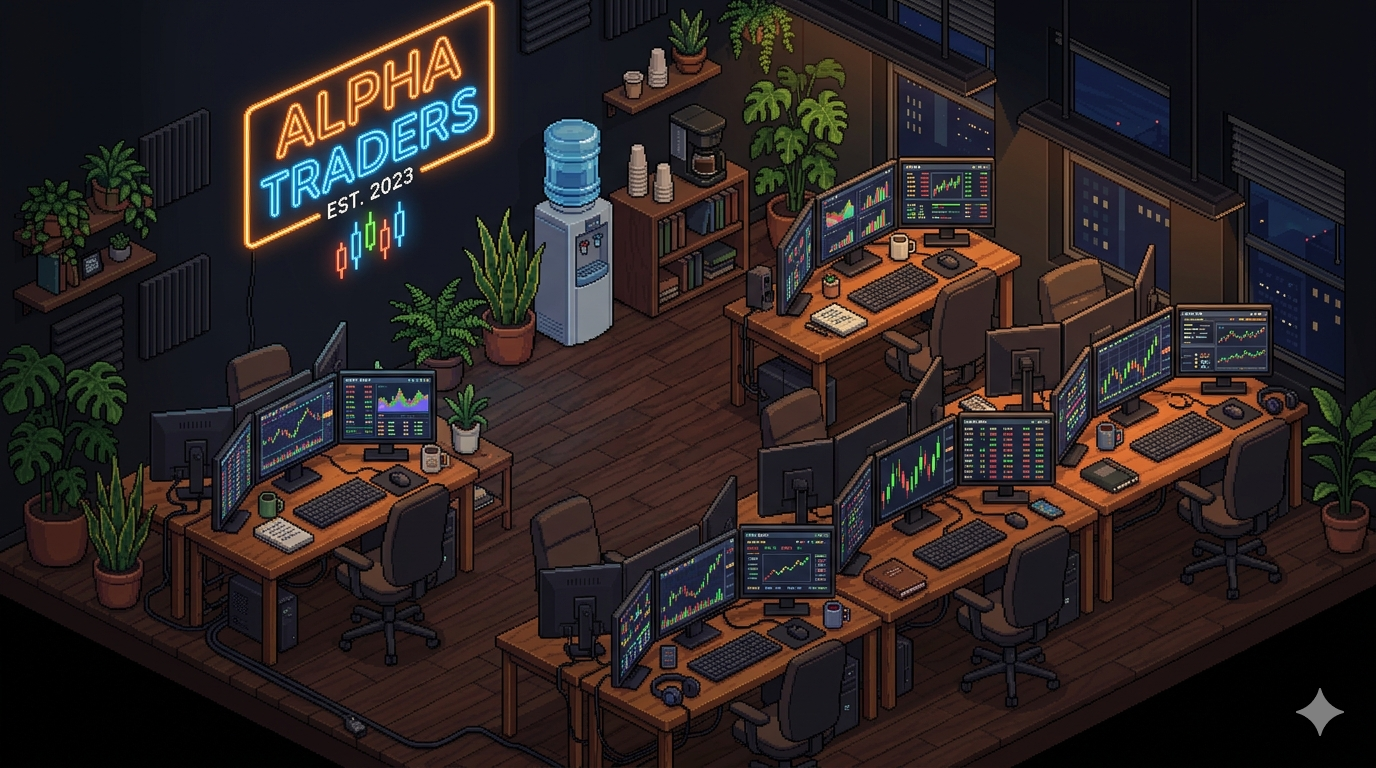
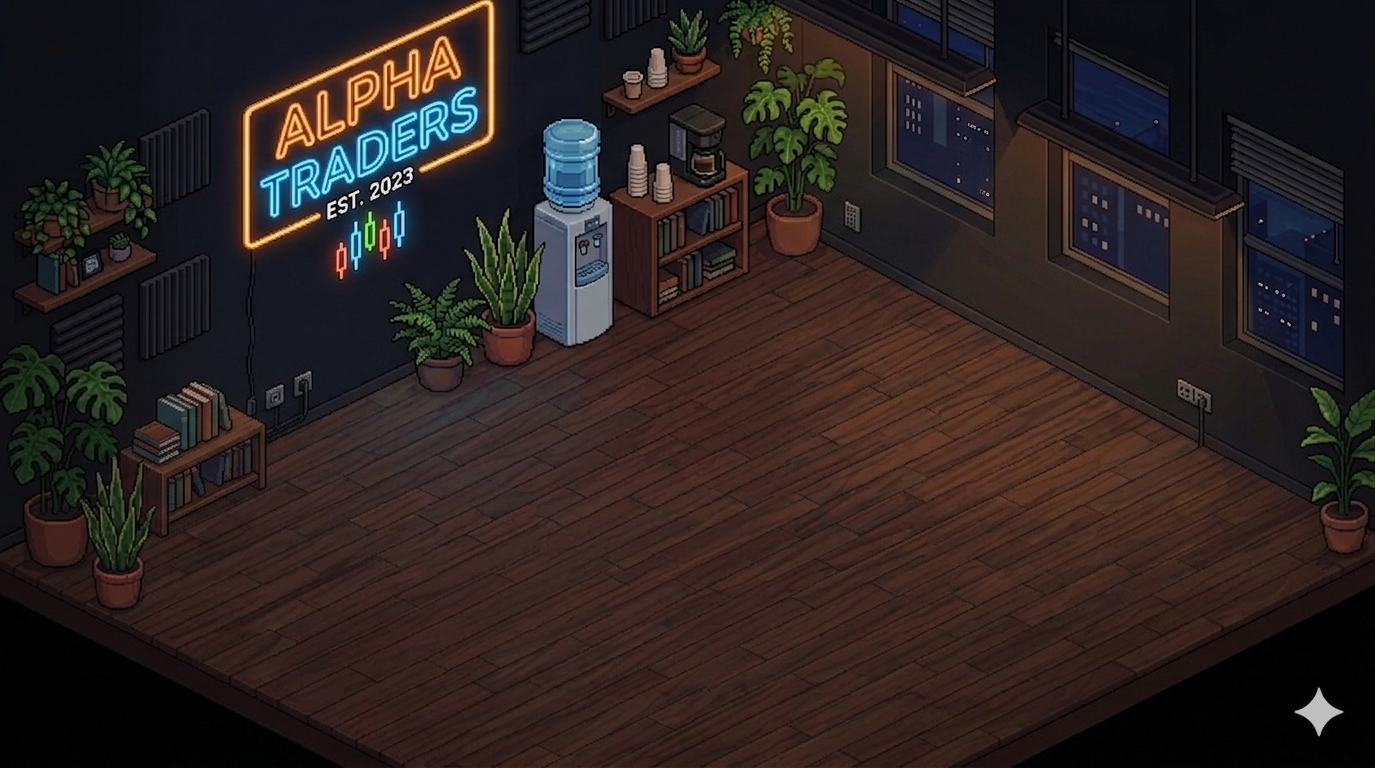
Swap to clean full-body sprite sheet + new empty room background
New team-cards.png is a 5x4 full-body character sheet on gray checker
(no card frames/text). SpriteSlicer now crops each character's exact
bounding box (head to feet) per detected grid bands and keys the gray
out — fuller, cleaner avatars. New room-bg.png (empty Alpha Traders
floor). Employee sprite[col,row] mapping unchanged (still 5x4).

diff --git a/js/sprite-slicer.js b/js/sprite-slicer.js
@@ -1,21 +1,21 @@
 // ════════════════════════════════════════════════════════════════════
-//  SPRITE SLICER (Phase 26.5) — crop the team-card roster sheet into
+//  SPRITE SLICER (Phase 26.6) — crop the team sprite sheet into
 //  per-character avatars, entirely in the browser (Canvas).
 //
-//  Sheet: assets/team-cards.png (960×1111) — a 5×4 grid of character
-//  cards (portrait on top, name band below). We crop ONLY the character
-//  region of each card (skip the name band + frame) and key out the
-//  gray gutter so the figure sits cleanly on the dark desk panel.
+//  Sheet: assets/team-cards.png (960×1111) — a 5×4 grid of FULL-BODY
+//  characters on a gray checker background. We crop each character's
+//  exact bounding box (head→feet) and key out the gray so the figure
+//  sits cleanly on the dark desk panel.
 //  Each employee carries sprite:[col,row]  (col 0-4, row 0-3).
 // ════════════════════════════════════════════════════════════════════
 const SpriteSlicer = {
-  SHEET: 'assets/team-cards.png?v=54',
-  // grid geometry in SOURCE pixels (relative to a 960×1111 sheet)
+  SHEET: 'assets/team-cards.png?v=55',
+  // grid geometry in SOURCE pixels (relative to a 960×1111 sheet).
+  // Per-column X span and per-row Y span of the character bounding boxes.
   BASE_W: 960, BASE_H: 1111,
-  XE: [18, 203, 388, 573, 758, 943],   // 5 columns → 6 vertical edges
-  YE: [80, 328, 593, 851, 1080],       // 4 rows    → 5 horizontal edges
-  COLS: 5, ROWS: 4,
-  INSET_X: 14, TOP_PAD: 10, CHAR_FRAC: 0.62,  // crop just the character (skip name band)
+  COLX: [[97, 170], [271, 346], [444, 520], [618, 693], [793, 867]],
+  ROWY: [[79, 278], [343, 547], [611, 815], [865, 1067]],
+  COLS: 5, ROWS: 4, PAD: 12,
   _img: null, _ready: false, _cache: {},
 
   load(cb) {
@@ -38,11 +38,9 @@ const SpriteSlicer = {
 
     const W = this._img.naturalWidth, H = this._img.naturalHeight;
     const sx = W / this.BASE_W, sy = H / this.BASE_H;   // scale if served size differs
-    const x0 = (this.XE[col]     + this.INSET_X) * sx;
-    const x1 = (this.XE[col + 1] - this.INSET_X) * sx;
-    const rTop = this.YE[row], rh = this.YE[row + 1] - this.YE[row];
-    const y0 = (rTop + this.TOP_PAD) * sy;
-    const y1 = (rTop + Math.round(rh * this.CHAR_FRAC)) * sy;
+    const cx = this.COLX[col], ry = this.ROWY[row];
+    const x0 = (cx[0] - this.PAD) * sx, x1 = (cx[1] + this.PAD) * sx;
+    const y0 = (ry[0] - this.PAD) * sy, y1 = (ry[1] + this.PAD) * sy;
     const srcW = x1 - x0, srcH = y1 - y0;
 
     const cv = document.createElement('canvas');
@@ -53,9 +51,9 @@ const SpriteSlicer = {
       const id = ctx.getImageData(0, 0, cv.width, cv.height), d = id.data;
       for (let i = 0; i < d.length; i += 4) {
         const r = d[i], g = d[i + 1], b = d[i + 2];
-        const mx = Math.max(r, g, b), mn = Math.min(r, g, b);
-        // gray-gutter key: flat gray ~73 (low saturation, mid brightness) → transparent
-        if ((mx - mn) < 16 && r > 56 && r < 100) d[i + 3] = 0;
+        const mx = Math.max(r, g, b), mn = Math.min(r, g, b), br = (r + g + b) / 3;
+        // gray-checker key: flat gray (low saturation, mid brightness) → transparent
+        if ((mx - mn) < 18 && br > 48 && br < 112) d[i + 3] = 0;
       }
       ctx.putImageData(id, 0, 0);
       const url = cv.toDataURL('image/png');

diff --git a/index.html b/index.html
@@ -619,17 +619,17 @@
 </div>
 
 <!-- ═══════════════════ SCRIPTS ═══════════════════ -->
-<script src="js/i18n.js?v=54"></script>
-<script src="js/market.js?v=54"></script>
-<script src="js/agents.js?v=54"></script>
-<script src="js/ui.js?v=54"></script>
-<script src="js/extras.js?v=54"></script>
-<script src="js/ai-bridge.js?v=54"></script>
-<script src="js/gemini.js?v=54"></script>
-<script src="js/portfolio.js?v=54"></script>
-<script src="js/sprite-slicer.js?v=54"></script>
-<script src="js/backtest.js?v=54"></script>
-<script src="js/app.js?v=54"></script>
+<script src="js/i18n.js?v=55"></script>
+<script src="js/market.js?v=55"></script>
+<script src="js/agents.js?v=55"></script>
+<script src="js/ui.js?v=55"></script>
+<script src="js/extras.js?v=55"></script>
+<script src="js/ai-bridge.js?v=55"></script>
+<script src="js/gemini.js?v=55"></script>
+<script src="js/portfolio.js?v=55"></script>
+<script src="js/sprite-slicer.js?v=55"></script>
+<script src="js/backtest.js?v=55"></script>
+<script src="js/app.js?v=55"></script>
 
 </body>
 </html>

diff --git a/js/extras.js b/js/extras.js
@@ -3810,7 +3810,7 @@ const Company = {
       </div>`;
     }).join('');
     return `<div style="position:relative;width:100%;max-width:940px;margin:0 auto 12px;border-radius:8px;overflow:hidden;border:1px solid var(--border);box-shadow:0 6px 20px rgba(0,0,0,.55)">
-      <img src="assets/room-bg.png?v=41" style="width:100%;display:block;image-rendering:pixelated">
+      <img src="assets/room-bg.png?v=55" style="width:100%;display:block;image-rendering:pixelated">
       <div style="position:absolute;left:12px;top:8px;font-size:11px;color:#9ec5ff;font-weight:bold;text-shadow:0 1px 4px #000">🏢 ALPHA TRADERS — Live Floor</div>
       ${figs}
     </div>`;